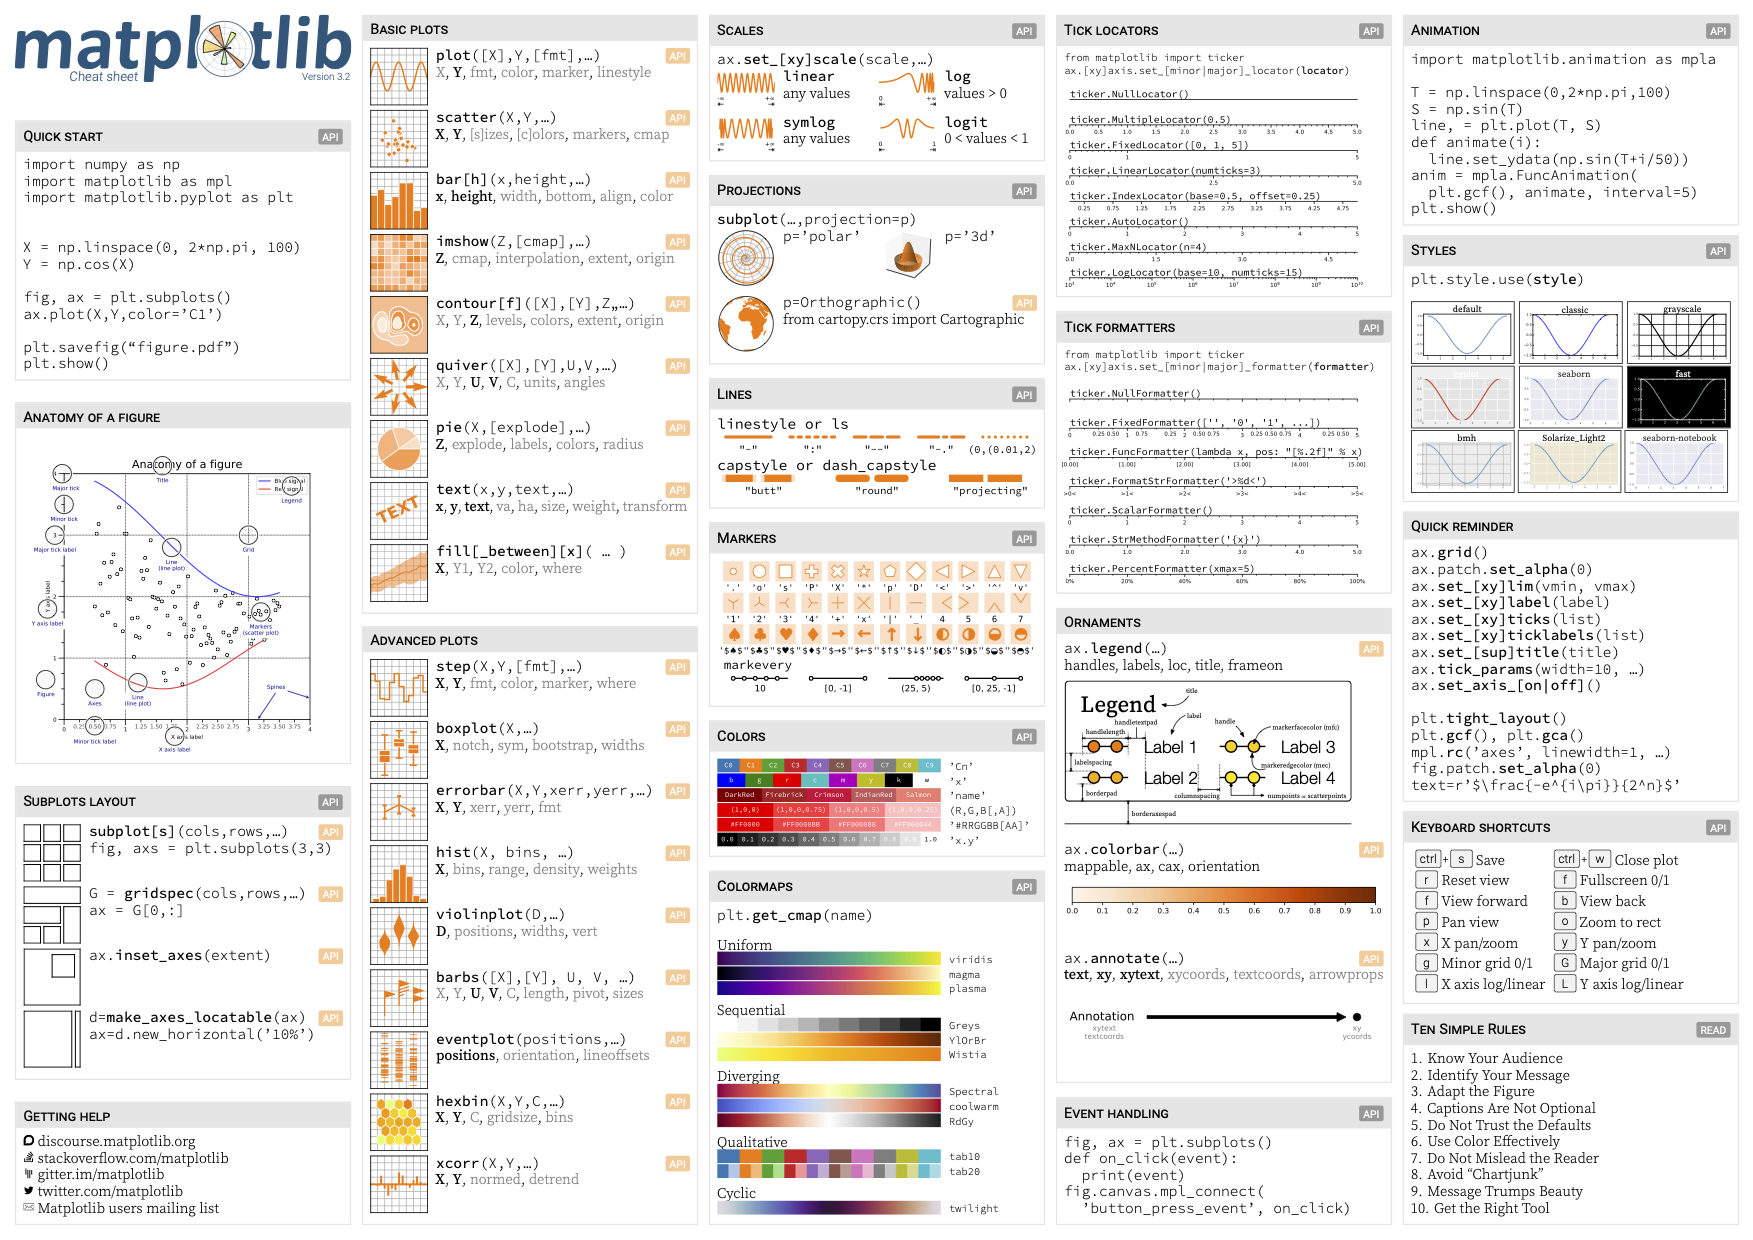
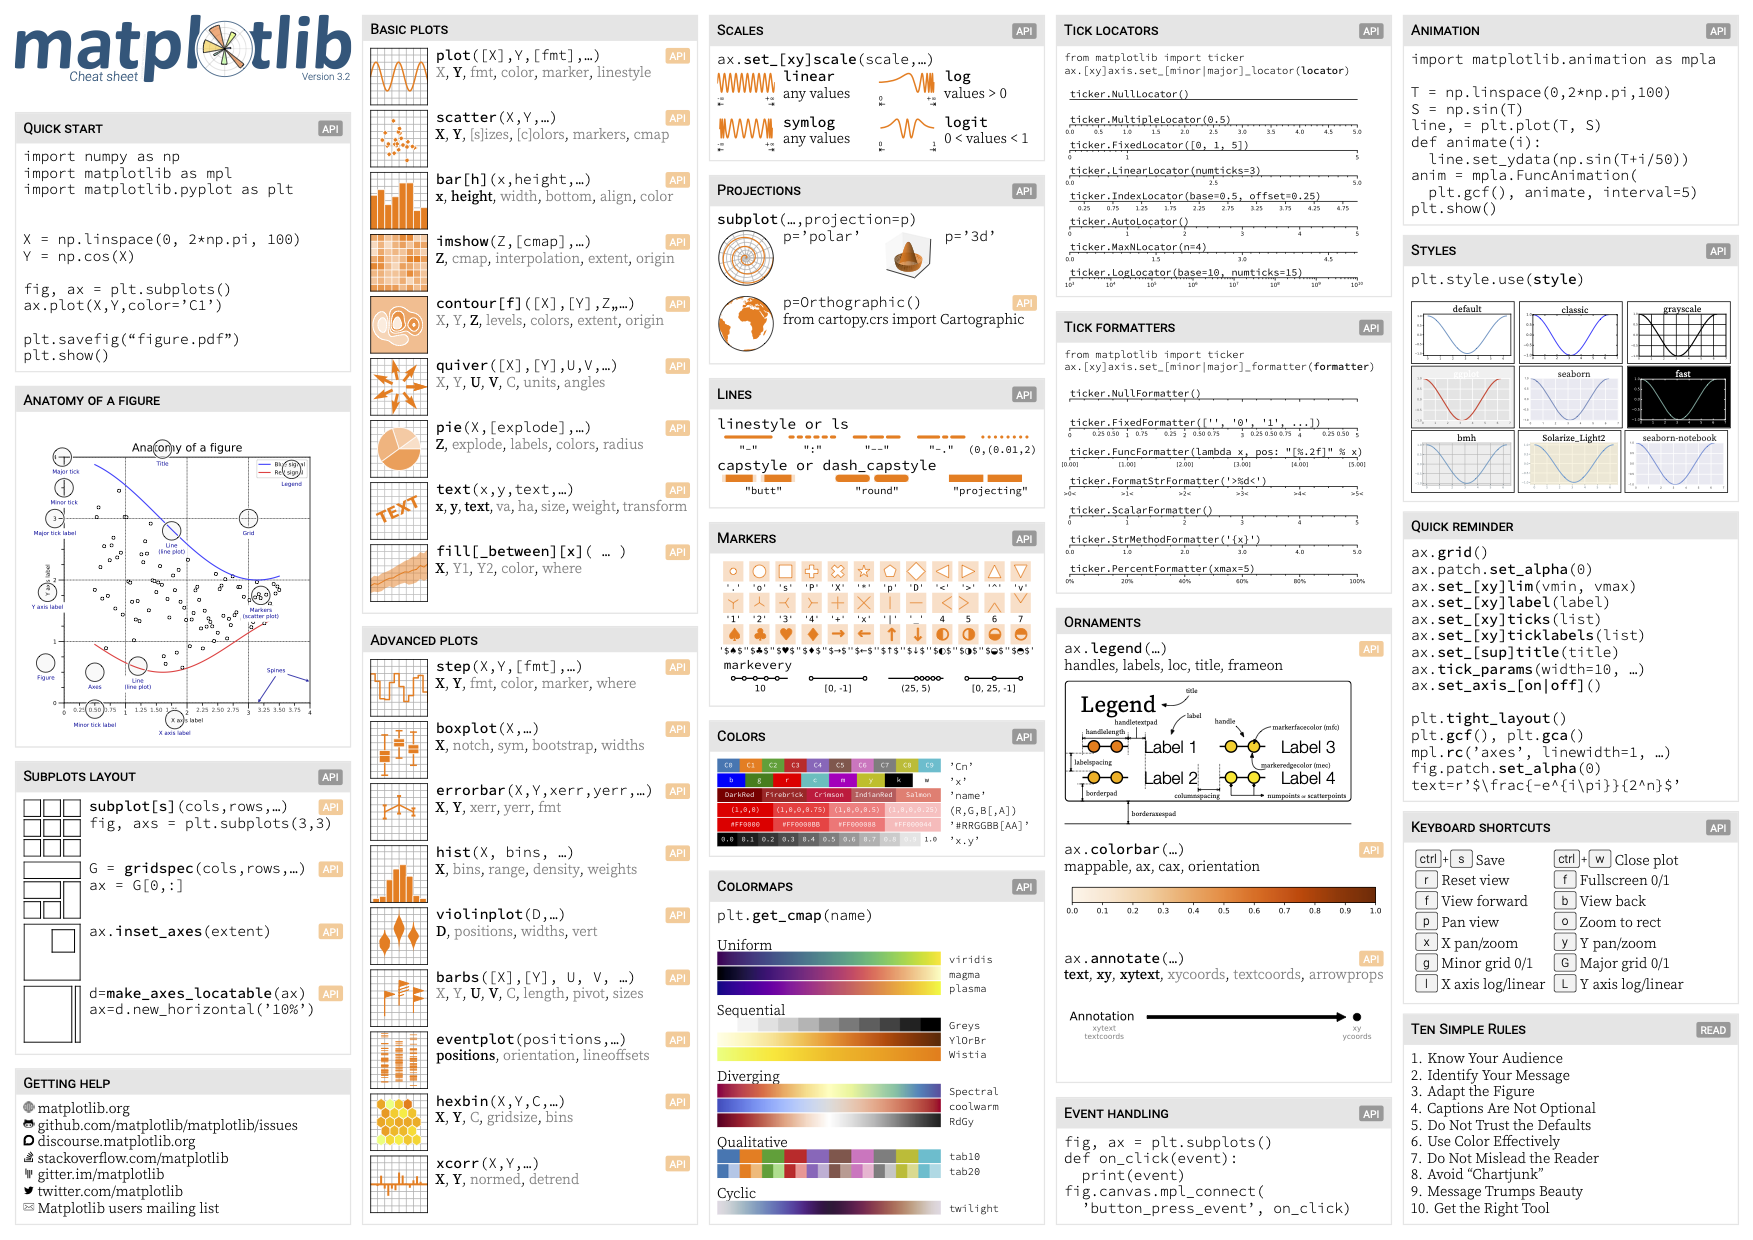
Simplified performance tips

Changed region(s): [[0.0, 0.0919, 0.2156, 0.9194]]

diff --git a/cheatsheets.tex b/cheatsheets.tex
@@ -782,7 +782,7 @@
   %
   \vspace{\fill}
   %
-  \begin{myboxed}{Text aligmnents \hfill
+  \begin{myboxed}{Text alignments \hfill
       \API{https://matplotlib.org/tutorials/text/text_props.html} }
     plt.\textbf{text}( …, ha=… , va=…, … )\\
 
@@ -892,13 +892,16 @@
 
   
   
-  \begin{myboxed}{Color names}
+  \begin{myboxed}{Color names \hfill
+      \API{https://matplotlib.org/api/colors_api.html} }
     \includegraphics[width=\columnwidth]{colornames.pdf}
   \end{myboxed}
   %
   \vspace{\fill}
   %
-  \begin{myboxed}{Image interpolation}
+  \begin{myboxed}{Image interpolation
+      \hfill \API{https://matplotlib.org/gallery/images_contours_and_fields/interpolation_methods.html} }
+        \smallskip
 %%    plt.\textbf{imshow}(…, interpolation=…)\\
 %%    plt.\textbf{contour[f]}(…, interpolation=…)\\
     \includegraphics[width=\columnwidth]{interpolations.pdf}
@@ -947,6 +950,8 @@
     \hspace*{2.5mm}~$\rightarrow$ ax.set\_xticks([])\\
     \textbf{… remove tick labels ?}\\
     \hspace*{2.5mm}~$\rightarrow$ ax.set\_[xy]ticklabels([])\\
+    \textbf{… rotate tick labels ?}\\
+    \hspace*{2.5mm}~$\rightarrow$ plt.[xy]ticks(rotation=90)\\
     \textbf{… hide top spine?}\\
     \hspace*{2.5mm}~$\rightarrow$ ax.spines['top'].set\_visible(False)\\
     \textbf{… hide legend border?}\\
@@ -965,8 +970,6 @@
     \hspace*{2.5mm}~$\rightarrow$ plt.get\_cmap(``viridis\_r'')\\
     \textbf{… get a discrete colormap?}\\
     \hspace*{2.5mm}~$\rightarrow$ plt.get\_cmap(``viridis'', 10)\\
-    \textbf{… rotate tick labels ?}\\
-    \hspace*{2.5mm}~$\rightarrow$ plt.[xy]ticks(rotation=90)\\
     \textbf{… show a figure for one second?}\\
     \hspace*{2.5mm}~$\rightarrow$ plt.show(block=False), time.sleep(1)
   \end{myboxed}
@@ -974,24 +977,23 @@
   \vspace{\fill}
   %
   \begin{myboxed}{Performance tips}
+    \smallskip
     {\ttfamily \fontsize{6pt}{7pt}\selectfont
-    \textcolor{red}{ax.scatter(X, Y)  \hfill slow}\\
-    ax.plot(X, Y, marker="o", ls="")  \hfill fast\\
+    \textcolor{red}{scatter(X, Y)  \hfill slow}\\
+    plot(X, Y, marker="o", ls="")  \hfill fast\\
     \hrule \smallskip
-    \textcolor{red}{for i in range(0,n,2):  \hfill (very) slow}\\
-    \hspace*{2.5mm}~\textcolor{red}{plt.plot(X[i:i+2], Y[i:i+2])}\\
-
-    X0, Y0 = X[0::2], Y[0::2]         \hfill fast\\
-    X1, Y1 = X[1::2], Y[1::2]\\
-    S = [None]*len(X)\\
-    X = [v for t in zip(X0,X1,S) for v in t]\\
-    Y = [v for t in zip(Y0,Y1,S) for v in t]\\
-    plt.plot(X,Y)}
+    \textcolor{red}{for i in range(n): plot(X[i]) \hfill slow}\\
+    plot(sum([x+[None] for x in X],[])) \hfill fast\\
+    \hrule \smallskip
+    \textcolor{red}{cla(), imshow(…), canvas.draw() \hfill slow}\\
+    im.set\_data(…), canvas.draw() \hfill fast\smallskip
+    }
   \end{myboxed}
   %
   \vspace{\fill}
   %
   \begin{myboxed}{Beyond Matplotlib}
+        \smallskip
     \href{https://seaborn.pydata.org/}{\textbf{Seaborn}}: Statistical Data Visualization\\
     \href{https://scitools.org.uk/cartopy/docs/latest/}{\textbf{Cartopy}}: Geospatial Data Processing\\
     \href{https://yt-project.org/doc/index.html}{\textbf{yt}}: Volumetric data Visualization\\

diff --git a/scripts/performance-tips.py b/scripts/performance-tips.py
@@ -28,25 +28,30 @@ print(f"Time: {end-start}s")
 
 ax.clear()
 
-n = 10_000
+n = 1_000
 np.random.seed(1)
-X = np.random.uniform(0,1,n)
-Y = np.random.uniform(0,1,n)
+X = []
+for i in range(n):
+    X.append(np.random.uniform(0,1,10))
+#np.random.uniform(0,1,n)
+# Y = np.random.uniform(0,1,n)
 
 start = time.perf_counter()
-for i in range(0,n,2): plt.plot(X[i:i+2], Y[i:i+2])
+# for i in range(0,n,2): plt.plot(X[i:i+2], Y[i:i+2])
+for i in range(n): plt.plot(X[i])
 end = time.perf_counter()
 print(f"Time: {end-start}s")
 
 ax.clear()
 
 start = time.perf_counter()
-X0,Y0 = X[0::2], Y[0::2]
-X1,Y1 = X[1::2], Y[1::2]
-S = [None]*len(X)
-X = [v for t in zip(X0,X1,S) for v in t]
-Y = [v for t in zip(Y0,Y1,S) for v in t]
-plt.plot(X,Y)
+ax.plot(sum([list(x)+[None] for x in X],[]))
+# X0,Y0 = X[0::2], Y[0::2]
+# X1,Y1 = X[1::2], Y[1::2]
+# S = [None]*len(X)
+# X = [v for t in zip(X0,X1,S) for v in t]
+# Y = [v for t in zip(Y0,Y1,S) for v in t]
+# plt.plot(X,Y)
 end = time.perf_counter()
 print(f"Time: {end-start}s")
 
